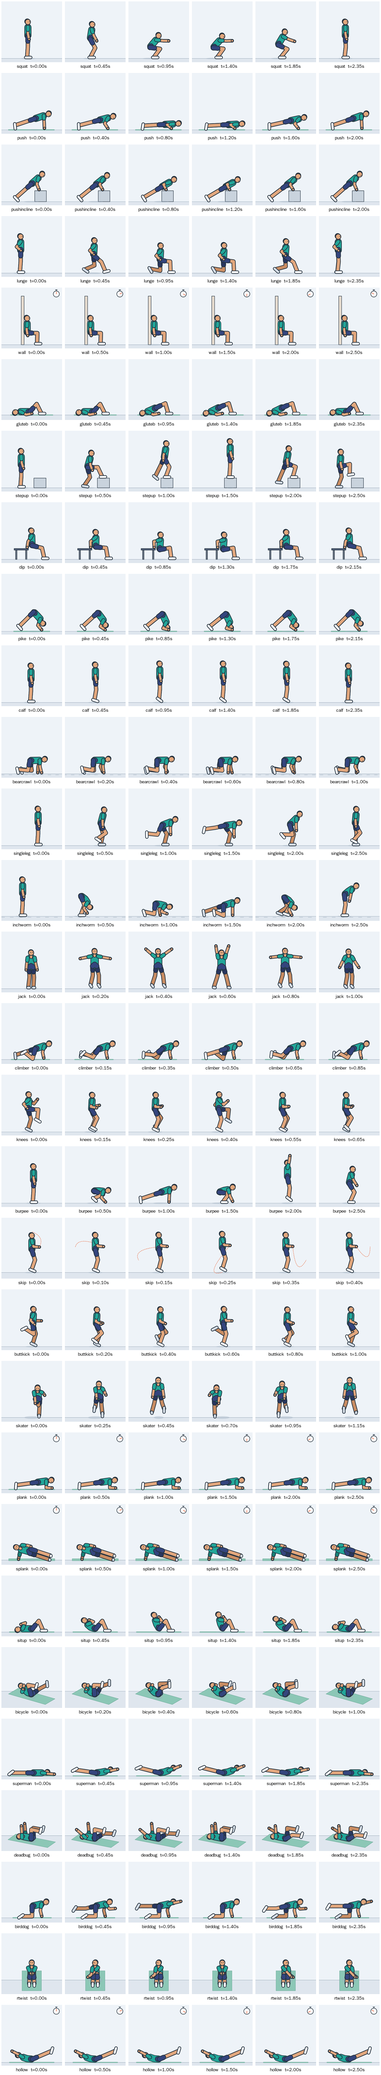
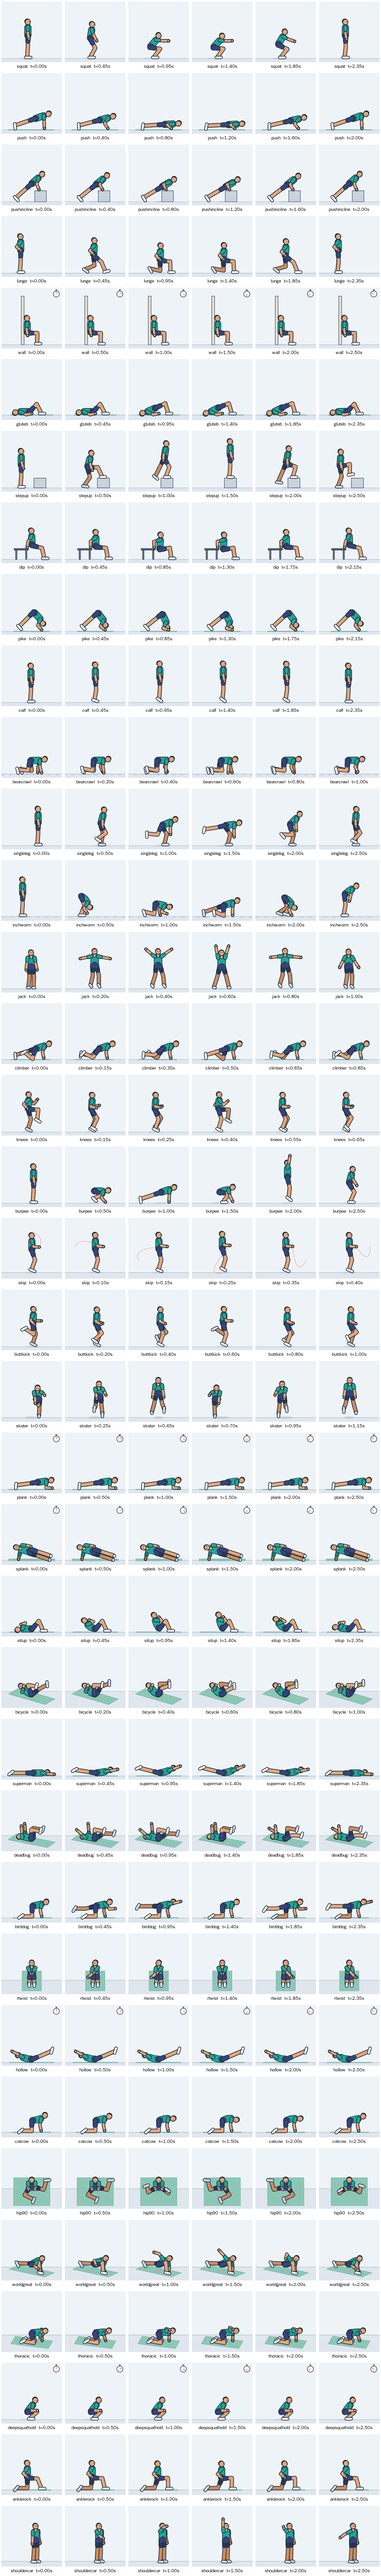
[skip netlify] C10 batch 4: mobility exercises (cat-cow, 90/90, world's greatest stretch, thoracic rotation, deep squat hold, ankle rocks, shoulder CARs)
Engine: opt-in exact IK plane for supports under a twisting trunk; per-exercise
limit overrides (documented in the exercise's doubts).

Claude-Session: https://claude.ai/code/session_01MDyLWfLCyQe3e3xB5h2PUj

Changed region(s): [[0.0, 0.0, 1.0, 1.0]]

diff --git a/store-content/exercise-anim/README.md b/store-content/exercise-anim/README.md
@@ -303,6 +303,54 @@ each spec (`form`, `doubts`) and this block is regenerated by the build.
 - Hold and keep breathing quietly
 - *Doubt / limitation:* Arms-overhead (harder) version; beginners bend the knees or keep the arms by the sides.
 
+**Cat-cow (`catcow`, side view, 3 s; mat).**
+- On hands and knees, hands under the shoulders, knees under the hips
+- Cow: breathe in, let the belly sink, chest forward, look slightly up
+- Cat: breathe out, round the whole back toward the ceiling, chin toward the chest
+- Slow and continuous, the movement starts from the pelvis
+
+**90/90 hip switch (`hip90`, elevated front view, 3 s; mat).**
+- Sit tall with both legs bent at 90°: one leg in front, the other out to the side behind
+- Lift the knees and rotate both legs to the other side (like windscreen wipers)
+- Keep the trunk upright and do not lean on the hands
+- Slow and controlled, from the hips
+- *Doubt / limitation:* The model's hip rotation is approximate (thighs on the floor use an abduction/flexion combination); the shins lie close to, not exactly on, the floor.
+
+**World's greatest stretch (`worldgreat`, elevated ¾ view, 3 s; mat).**
+- Long lunge: front foot flat, back leg long with the heel up
+- The hand on the back-leg side is on the floor inside the front foot
+- Rotate the chest open and reach the other arm to the ceiling; eyes follow the hand
+- Return the hand toward the front instep and repeat slowly
+- *Doubt / limitation:* Shown on one side; back knee is off the floor (long version).
+- *Doubt / limitation:* Hip flexion here includes the pelvic tilt (the model has one pelvis segment), so its limit is raised to 168° for this deep lunge.
+
+**Thoracic rotation (`thoracic`, elevated ¾ view, 3 s; mat).**
+- On hands and knees, one hand lightly behind the head
+- Rotate from the upper back: elbow down toward the supporting wrist
+- Then open up, elbow toward the ceiling, eyes follow the elbow
+- Hips stay still and square; slow and controlled
+
+**Deep squat hold (`deepsquathold`, side view, 3 s; hold, stopwatch).**
+- Feet a little wider than the hips, heels stay on the floor
+- Sit as low as comfortable between the heels
+- Back long (not fully rounded), chest up
+- Hands together in front; the elbows push the knees gently outward; breathe and hold
+- *Doubt / limitation:* Side view hides the elbows pressing the knees outward.
+
+**Ankle rocks (`anklerock`, side view, 3 s; mat).**
+- Half-kneeling: back knee on the floor, front foot flat
+- Slowly move the front knee forward over the toes
+- The front heel stays down the whole time
+- Return and repeat; trunk upright
+
+**Shoulder CARs (`shouldercar`, elevated ¾ view, 3 s).**
+- Stand tall, trunk and hips still (a fist clenched helps)
+- Draw the biggest slow circle possible with the straight arm: forward, up, out, back and down
+- Only the shoulder moves — no leaning or twisting
+- Even speed, then repeat (and the other arm)
+- *Doubt / limitation:* The model has no shoulder blade; the back part of the circle is approximate.
+- *Doubt / limitation:* One arm shown; the other arm rests.
+
 <!-- form:end -->
 
 ## Known limitations and doubts
